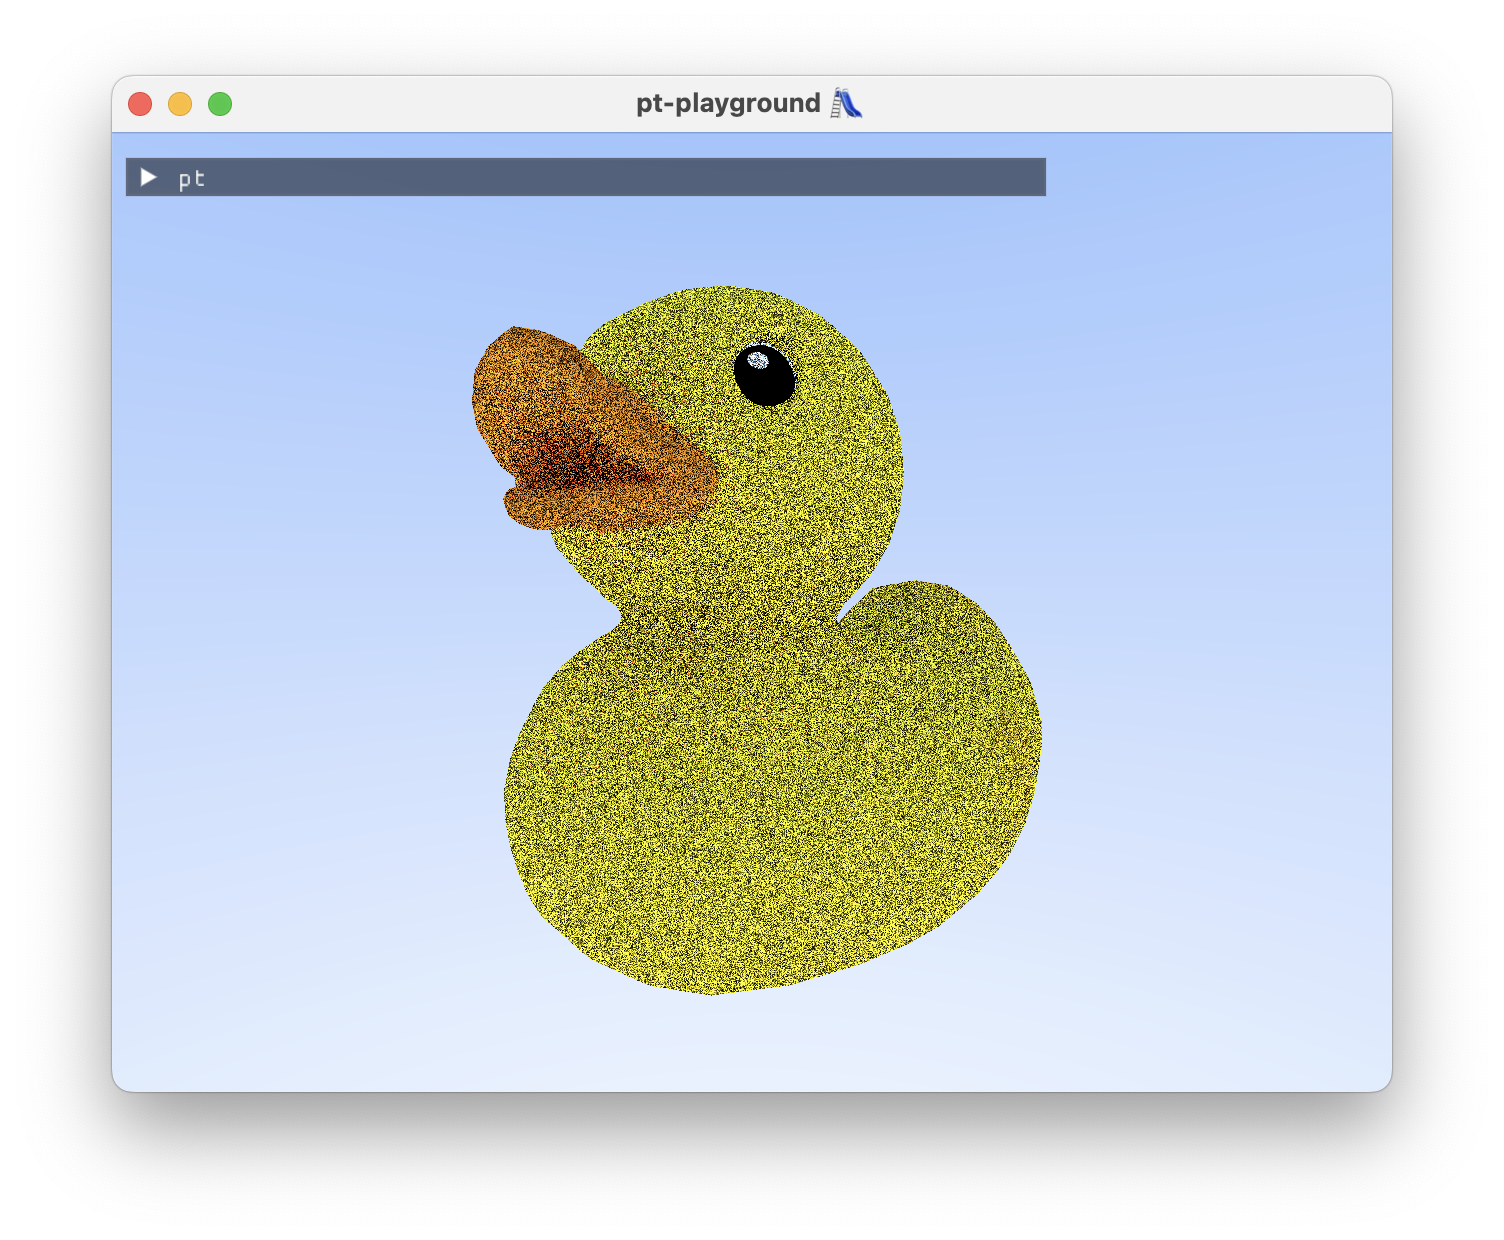
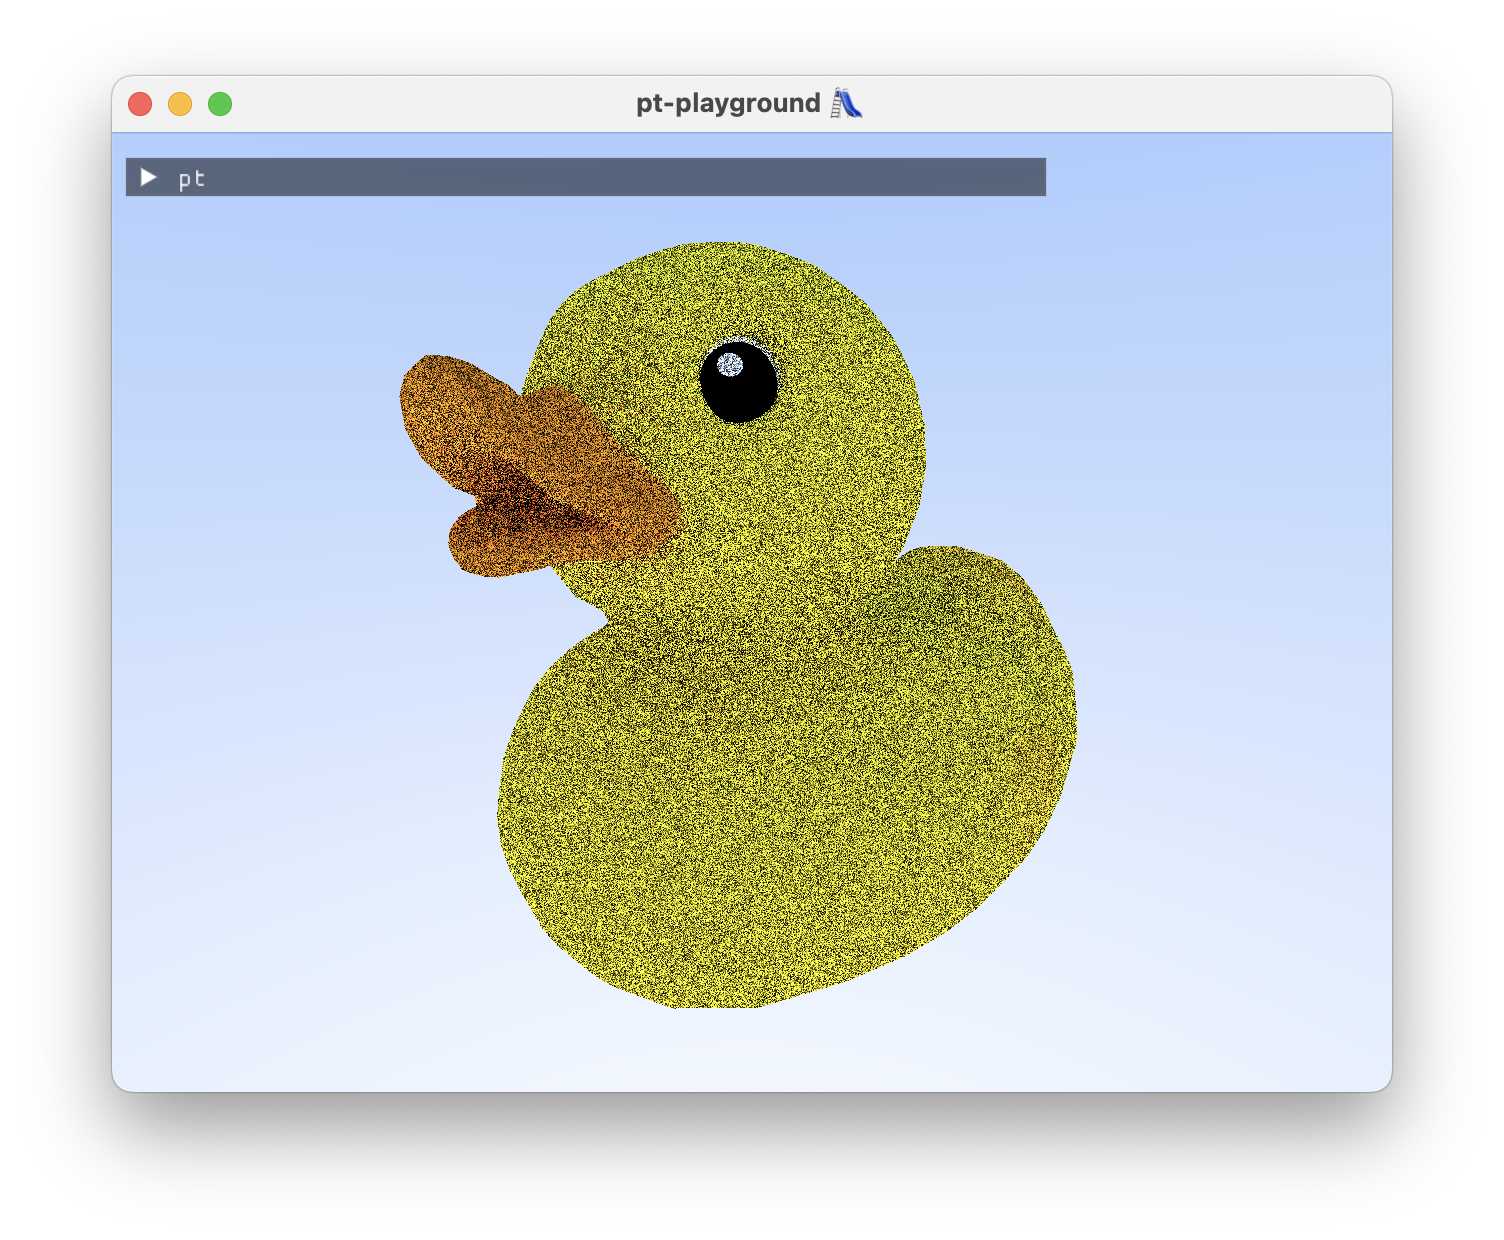
Rebuilding site Tue Nov 14 14:36:28 EET 2023

Changed region(s): [[0.25, 0.1839, 0.7188, 0.8274]]

diff --git a/post/pathtracer_devlog/index.html b/post/pathtracer_devlog/index.html
@@ -72,14 +72,73 @@
         </div>
         <div class="article-entry" itemprop="articleBody">
             <p>This post is a devlog for my <a href="https://github.com/Nelarius/pathtracer-playground">pathtracer-playground</a> project. Follow along to see the progress, starting from scratch by opening a simple window.</p>
+<h2 id="better-estimator-importance-sampling-surface-normal-directions">Better estimator: importance sampling surface normal directions</h2>
+<p><em>2023-11-14</em></p>
+<p><em>Commit: <a href="https://github.com/Nelarius/pathtracer-playground/commit/4a76335aa527d816d766606e7dab774582ed6f8b">4a76335</a></em></p>
+<p>Cosine-weighted hemisphere sampling is implemented. The term \((\omega_i \cdot \mathrm{n})\) in the rendering equation equals \(\cos \theta\), where \(\theta\) is the zenith angle between the surface normal and the incoming ray direction. Directions which are close to perpendicular to the surface normal contribute very little light due to the cosine. It would be better to sample directions close to the surface normal.</p>
+<p>The Monte Carlo estimator for non-uniform random variables \(X_i\) drawn out of probability density function (PDF) \(p(x)\) is</p>
+<p>$$
+F_n = \frac{1}{n} \sum_{i = 1}^{n} \frac{f(X_i)}{p(X_i)}.
+$$</p>
+<p>Choosing \(p(\omega) = \frac{\cos \theta}{\pi}\) and, like before, taking just one sample, our estimator becomes:</p>
+<p>$$
+F_1 = \frac{\pi}{\cos \theta} f_{\textrm{lam}}L_i(\omega_i)(\omega_i \cdot \mathrm{n}).
+$$</p>
+<p>We can substitute \((\omega_i \cdot \mathrm{n}) = \cos \theta\) and \(f_{\textrm{lam}} = \frac{k_{\textrm{albedo}}}{\pi}\) to simplify the estimator further:</p>
+<p>$$
+F_1 = k_{\textrm{albedo}}L_i(\omega_i),
+$$</p>
+<p>where our light direction \(\omega_i\) is now drawn out of the cosine-weighted hemisphere. The code is simplified to just one function, which both samples the cosine-weighted direction and evaluates the albedo:</p>
+<div class="highlight"><div style="background-color:#fff;-moz-tab-size:4;-o-tab-size:4;tab-size:4;">
+<table style="border-spacing:0;padding:0;margin:0;border:0;"><tr><td style="vertical-align:top;padding:0;margin:0;border:0;">
+<pre tabindex="0" style="background-color:#fff;-moz-tab-size:4;-o-tab-size:4;tab-size:4;"><code><span style="white-space:pre;-webkit-user-select:none;user-select:none;margin-right:0.4em;padding:0 0.4em 0 0.4em;color:#7f7f7f"> 1
+</span><span style="white-space:pre;-webkit-user-select:none;user-select:none;margin-right:0.4em;padding:0 0.4em 0 0.4em;color:#7f7f7f"> 2
+</span><span style="white-space:pre;-webkit-user-select:none;user-select:none;margin-right:0.4em;padding:0 0.4em 0 0.4em;color:#7f7f7f"> 3
+</span><span style="white-space:pre;-webkit-user-select:none;user-select:none;margin-right:0.4em;padding:0 0.4em 0 0.4em;color:#7f7f7f"> 4
+</span><span style="white-space:pre;-webkit-user-select:none;user-select:none;margin-right:0.4em;padding:0 0.4em 0 0.4em;color:#7f7f7f"> 5
+</span><span style="white-space:pre;-webkit-user-select:none;user-select:none;margin-right:0.4em;padding:0 0.4em 0 0.4em;color:#7f7f7f"> 6
+</span><span style="white-space:pre;-webkit-user-select:none;user-select:none;margin-right:0.4em;padding:0 0.4em 0 0.4em;color:#7f7f7f"> 7
+</span><span style="white-space:pre;-webkit-user-select:none;user-select:none;margin-right:0.4em;padding:0 0.4em 0 0.4em;color:#7f7f7f"> 8
+</span><span style="white-space:pre;-webkit-user-select:none;user-select:none;margin-right:0.4em;padding:0 0.4em 0 0.4em;color:#7f7f7f"> 9
+</span><span style="white-space:pre;-webkit-user-select:none;user-select:none;margin-right:0.4em;padding:0 0.4em 0 0.4em;color:#7f7f7f">10
+</span><span style="white-space:pre;-webkit-user-select:none;user-select:none;margin-right:0.4em;padding:0 0.4em 0 0.4em;color:#7f7f7f">11
+</span><span style="white-space:pre;-webkit-user-select:none;user-select:none;margin-right:0.4em;padding:0 0.4em 0 0.4em;color:#7f7f7f">12
+</span><span style="white-space:pre;-webkit-user-select:none;user-select:none;margin-right:0.4em;padding:0 0.4em 0 0.4em;color:#7f7f7f">13
+</span><span style="white-space:pre;-webkit-user-select:none;user-select:none;margin-right:0.4em;padding:0 0.4em 0 0.4em;color:#7f7f7f">14
+</span><span style="white-space:pre;-webkit-user-select:none;user-select:none;margin-right:0.4em;padding:0 0.4em 0 0.4em;color:#7f7f7f">15
+</span><span style="white-space:pre;-webkit-user-select:none;user-select:none;margin-right:0.4em;padding:0 0.4em 0 0.4em;color:#7f7f7f">16
+</span></code></pre></td>
+<td style="vertical-align:top;padding:0;margin:0;border:0;;width:100%">
+<pre tabindex="0" style="background-color:#fff;-moz-tab-size:4;-o-tab-size:4;tab-size:4;"><code class="language-rust" data-lang="rust"><span style="display:flex;"><span><span style="color:#00f">struct</span> <span style="color:#2b91af">Scatter</span> {
+</span></span><span style="display:flex;"><span>    wi: <span style="color:#2b91af">vec3f</span>,
+</span></span><span style="display:flex;"><span>    throughput: <span style="color:#2b91af">vec3f</span>,
+</span></span><span style="display:flex;"><span>}
+</span></span><span style="display:flex;"><span>
+</span></span><span style="display:flex;"><span><span style="color:#00f">fn</span> evalImplicitLambertian(hit: <span style="color:#2b91af">Intersection</span>, rngState: <span style="color:#2b91af">ptr</span>&lt;function, <span style="color:#2b91af">u32</span>&gt;) -&gt; <span style="color:#2b91af">Scatter</span> {
+</span></span><span style="display:flex;"><span>    <span style="color:#00f">let</span> v = rngNextInCosineWeightedHemisphere(rngState);
+</span></span><span style="display:flex;"><span>    <span style="color:#00f">let</span> onb = pixarOnb(hit.n);
+</span></span><span style="display:flex;"><span>    <span style="color:#00f">let</span> wi = onb * v;
+</span></span><span style="display:flex;"><span>
+</span></span><span style="display:flex;"><span>    <span style="color:#00f">let</span> textureDesc = textureDescriptors[textureDescriptorIndices[hit.triangleIdx]];
+</span></span><span style="display:flex;"><span>    <span style="color:#00f">let</span> uv = hit.uv;
+</span></span><span style="display:flex;"><span>    <span style="color:#00f">let</span> albedo = textureLookup(textureDesc, uv);
+</span></span><span style="display:flex;"><span>
+</span></span><span style="display:flex;"><span>    <span style="color:#00f">return</span> Scatter(wi, albedo);
+</span></span><span style="display:flex;"><span>}
+</span></span></code></pre></td></tr></table>
+</div>
+</div><p>Looking at our duck, before:</p>
+<p><img src="/img/pathtracer_devlog/pathtraced-duck.png" alt="pathtraced duck"></p>
+<p>And after, with cosine-weighted hemisphere sampling:</p>
+<p><img src="/img/pathtracer_devlog/cosine-weighted-duck.png" alt="cosine-weighted duck"></p>
 <h2 id="the-first-physically-based-pathtracer">The first physically-based pathtracer</h2>
 <p><em>2023-11-13</em></p>
 <p><em>Commit: <a href="https://github.com/Nelarius/pathtracer-playground/commit/c83b83e019a44d102a79b2890ffd7897bf0977d0">c83b83e</a></em></p>
 <p>A simple physically-based pathtracer is implemented. ✨ The rendering equation is solved using the following <em>Monte Carlo estimator</em>:</p>
 <p>$$
-F_1 = 2 \pi f_r(\mathrm{x_i},\omega_i)L_i(\mathrm{x_i},\omega_i)\omega_i\cdot\mathrm{n},
+F_1 = 2 \pi f_r(\mathrm{x_i},\omega_i)L_i(\mathrm{x_i},\omega_i)(\omega_i\cdot\mathrm{n}),
 $$</p>
-<p>where \(2 \pi\) is the surface area of the unit hemisphere, \(f_r\) is the reflectance distribution function, \(\omega_i\) is the incoming ray direction, and \(L_i\) is the incoming radiance along \(\omega_i\). The estimator is based on the Monte Carlo estimator for \(\int_{a}^{b} f(x) dx\), where the random variable is drawn from a uniform distribution:</p>
+<p>where \(2 \pi\) is the surface area of the unit hemisphere, \(f_r\) is the bidirectional reflectance distribution function (BRDF), \(\omega_i\) is the incoming ray direction, and \(L_i\) is the incoming radiance along \(\omega_i\). The estimator is based on the Monte Carlo estimator for \(\int_{a}^{b} f(x) dx\), where the random variable is drawn from a uniform distribution:</p>
 <p>$$
 F_n = \frac{b-a}{n} \sum_{i=1}^{n} f(X_i),
 $$</p>
@@ -680,6 +739,7 @@ $$</p>
             <h3>Contents</h3>
             <nav id="TableOfContents">
   <ul>
+    <li><a href="#better-estimator-importance-sampling-surface-normal-directions">Better estimator: importance sampling surface normal directions</a></li>
     <li><a href="#the-first-physically-based-pathtracer">The first physically-based pathtracer</a></li>
     <li><a href="#simple-texture-support-">Simple texture support 🖼</a></li>
     <li><a href="#interpolated-normals-texture-coordinates-and-gpu-timers">Interpolated normals, texture coordinates, and GPU timers</a></li>

diff --git a/index.html b/index.html
@@ -73,7 +73,7 @@
                 </div>
                 <div class="article-entry" itemprop="articleBody">
                     <p>
-                        <img src="/img/pathtracer_devlog/pathtraced-duck.png"><br>
+                        <img src="/img/pathtracer_devlog/cosine-weighted-duck.png"><br>
                     A devlog of my pathtracer-playground project, where I am writing a physically based pathtracer using WebGPU from scratch.
                     </p>
                     <p class="article-more-link">
